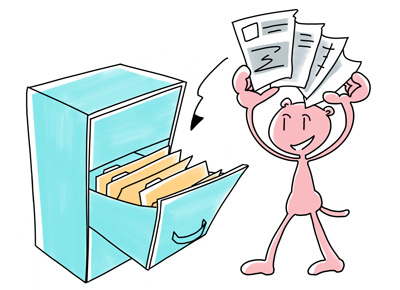
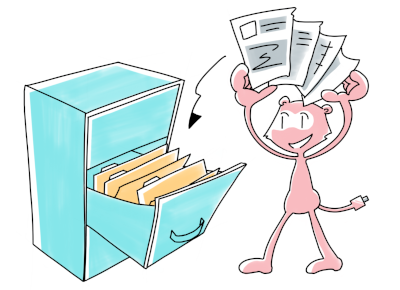
fix: add image for offline capable

Changed region(s): [[0.06, 0.0, 0.93, 0.9931], [0.27, 0.8379, 0.3, 0.869], [0.15, 0.9, 0.18, 0.931]]

diff --git a/src/components/HomepageFeatures.js b/src/components/HomepageFeatures.js
@@ -5,7 +5,7 @@ import styles from './HomepageFeatures.module.css';
 const FeatureList = [
   {
     title: 'Offline capable',
-    imgPath: '/img/easy_to_use_small.png',
+    imgPath: '/img/offline_capable_small.png',
     description: (
       <>
       Distributed multi-primary database that can work in offline and online.
